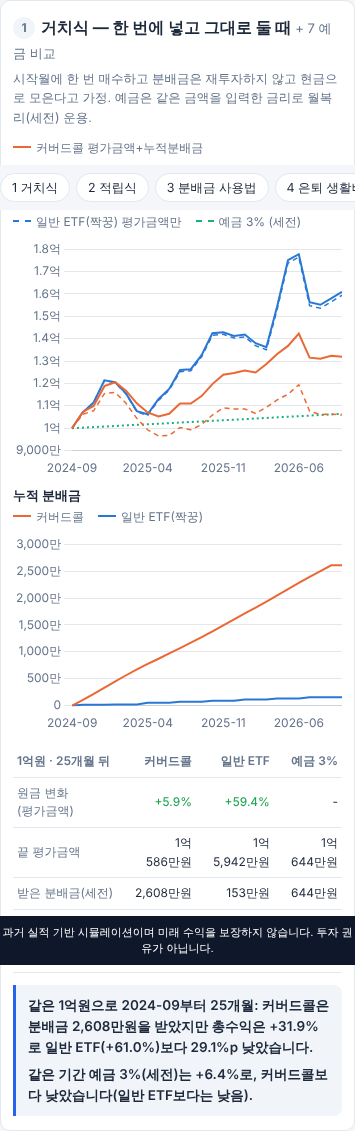
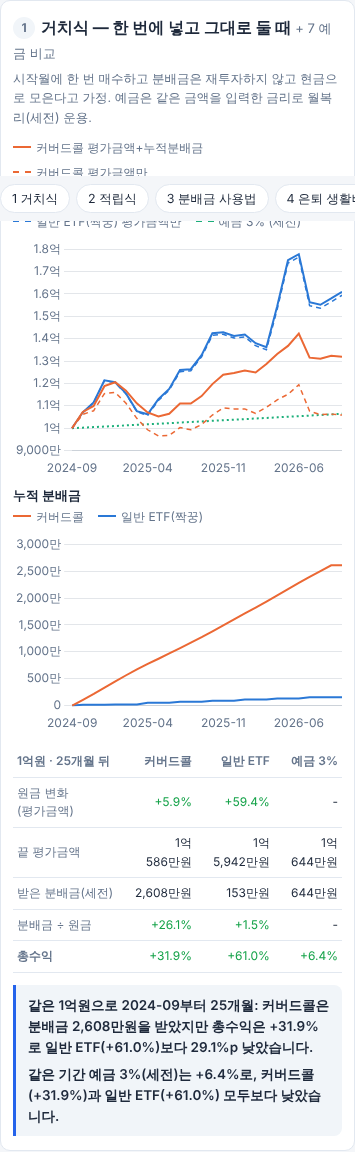
시뮬레이터: 리뷰 반영 — 안내 띠 겹침 해소, 예금 비교 요약 문장 개선
- 하단 안내 띠를 position:fixed 대신 페이지 맨 아래(본문 흐름)에 배치해
  요약 문장을 가리지 않도록 함 (PC·모바일 스크린샷으로 확인)
- 예금 비교 요약을 세 값을 담은 한 문장으로: 모두보다 낮음/높음,
  사이에 있는 경우(…보다는 높고 …보다는 낮았습니다), 혼합형 단독 처리

Claude-Session: https://claude.ai/code/session_01MwpYGzDfqMGGDJdmpQGeUS

diff --git a/simulator.html b/simulator.html
@@ -26,7 +26,7 @@
   }
 }
 *{margin:0;padding:0;box-sizing:border-box;}
-body{font-family:-apple-system,BlinkMacSystemFont,'Segoe UI','Malgun Gothic',sans-serif;background:var(--bg);color:var(--text);font-size:14px;line-height:1.55;padding-bottom:64px;}
+body{font-family:-apple-system,BlinkMacSystemFont,'Segoe UI','Malgun Gothic',sans-serif;background:var(--bg);color:var(--text);font-size:14px;line-height:1.55;}
 .wrap{max-width:1080px;margin:0 auto;padding:var(--gap);}
 a{color:var(--accent);}
 .hdr{background:var(--header);color:#fff;border-radius:var(--r);padding:20px 24px;margin-bottom:var(--gap);}
@@ -78,7 +78,7 @@ table.res thead th{font-size:12px;color:var(--muted);font-weight:600;}
 .fn li{margin-left:16px;}
 .inline-ctl{display:flex;flex-wrap:wrap;gap:10px 16px;align-items:center;font-size:13px;margin-bottom:8px;}
 .inline-ctl input{width:110px;font:inherit;padding:5px 8px;border:1px solid var(--border);border-radius:6px;background:var(--card);color:var(--text);}
-.disclaimer{position:fixed;left:0;right:0;bottom:0;z-index:10;background:var(--header);color:#fff;font-size:12px;text-align:center;padding:9px 12px;line-height:1.4;}
+.disclaimer{background:var(--header);color:#fff;font-size:12.5px;font-weight:600;text-align:center;padding:12px 16px;line-height:1.5;border-radius:var(--r);margin-bottom:var(--gap);}
 #printSum{display:none;}
 @media(max-width:700px){
   .wrap{padding:10px;} .hdr{padding:14px 16px;} .card{padding:14px 12px;}
@@ -257,10 +257,10 @@ table.res thead th{font-size:12px;color:var(--muted);font-weight:600;}
     <div id="dataInfo" style="margin-top:6px"></div>
   </div>
 
+  <div class="disclaimer">과거 실적 기반 시뮬레이션이며 미래 수익을 보장하지 않습니다. 투자 권유가 아닙니다.</div>
+
   <div id="printSum"></div>
 </div>
-
-<div class="disclaimer">과거 실적 기반 시뮬레이션이며 미래 수익을 보장하지 않습니다. 투자 권유가 아닙니다.</div>
 
 <script src="https://cdn.jsdelivr.net/npm/chart.js@4.4.1/dist/chart.umd.js"></script>
 <script>
@@ -498,7 +498,13 @@ function render(){
     t1 += `커버드콜은 분배금 ${fmtKRW(L1c.divSum)}을 받았고, 평가금액은 ${pct(L1c.priceRet)}, 총수익은 ${pct(L1c.totalRet)}입니다.`;
   }
   const depRet = depEnd/state.a-1;
-  let t1d = `같은 기간 예금 ${state.r}%(세전)는 ${pct(depRet)}로, 커버드콜보다 ${L1c.totalRet>=depRet?'낮았':'높았'}습니다` + (pr ? `(일반 ETF보다는 ${L1p.totalRet>=depRet?'낮음':'높음'}).` : '.');
+  // 예금 vs 커버드콜·일반 ETF 를 한 문장으로 (보이는 소수 1자리 기준 비교)
+  const vs = r => { const d = dpp(depRet, r); return d < 0 ? '낮았' : d > 0 ? '높았' : '같았'; };
+  const ccT = `커버드콜(${pct(L1c.totalRet)})`, prT = pr ? `일반 ETF(${pct(L1p.totalRet)})` : '';
+  let t1d = `같은 기간 예금 ${state.r}%(세전)는 ${pct(depRet)}로, `;
+  if(!pr) t1d += `${ccT}보다 ${vs(L1c.totalRet)}습니다.`;
+  else if(vs(L1c.totalRet) === vs(L1p.totalRet)) t1d += `${ccT}과 ${prT} 모두보다 ${vs(L1c.totalRet)}습니다.`.replace('모두보다 같았', '모두와 같았');
+  else t1d += `${ccT}보다는 ${vs(L1c.totalRet).replace('았','고')} ${prT}보다는 ${vs(L1p.totalRet)}습니다.`;
   document.getElementById('sum1').innerHTML = `<p>${esc(t1)}</p><p>${esc(t1d)}</p>`;
   out.L1c=L1c; out.L1p=L1p; out.depEnd=depEnd; out.sum1=[t1,t1d];
 
